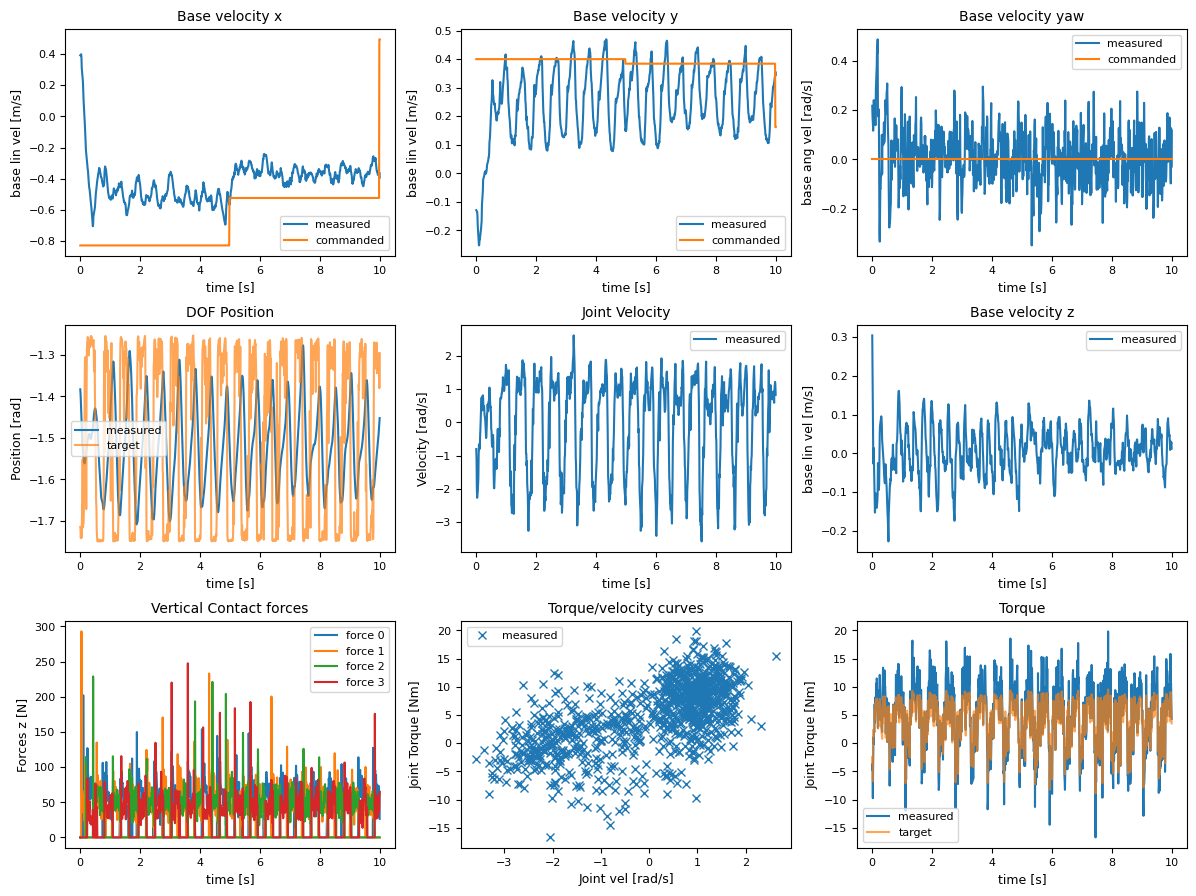
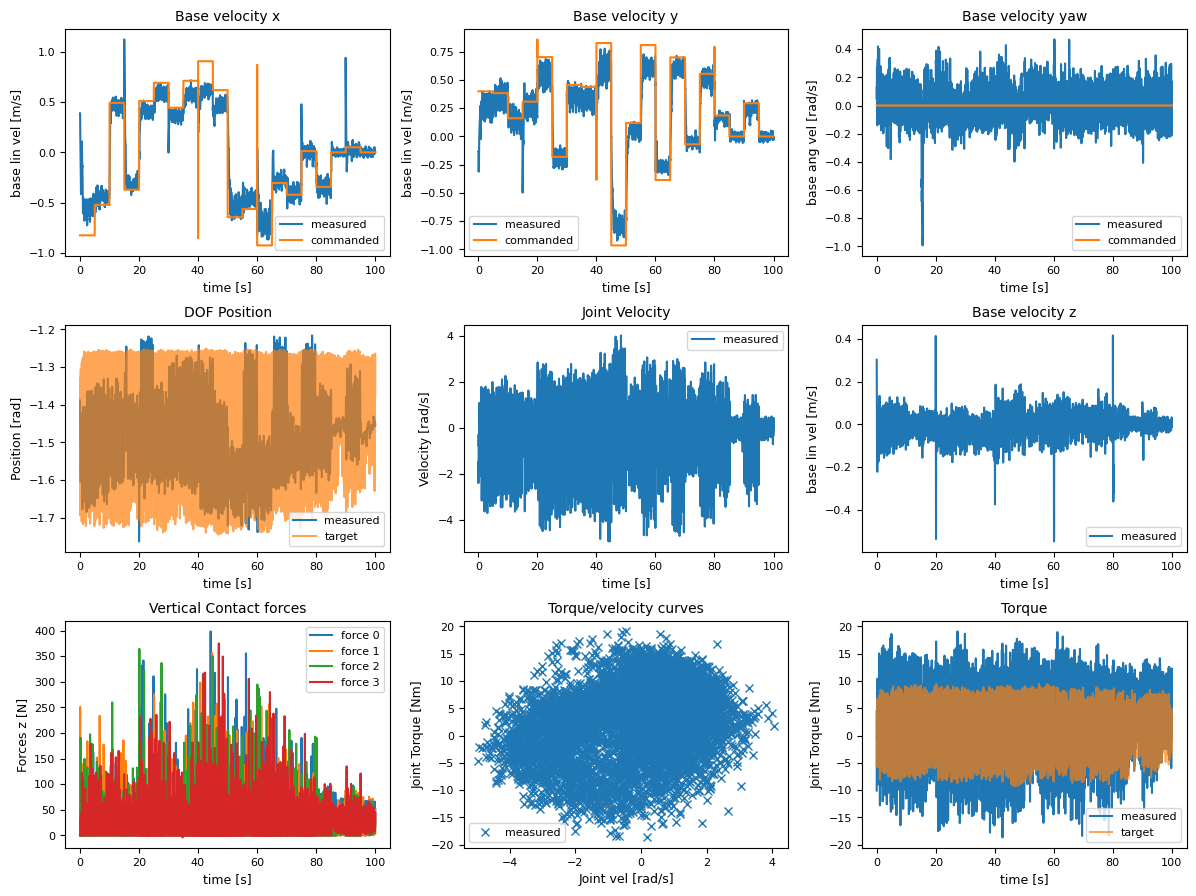
Quick check on policy learning progress

diff --git a/legged_gym/scripts/play_dynamic.py b/legged_gym/scripts/play_dynamic.py
@@ -102,8 +102,8 @@ def play(args):
     if RECORD_FRAMES:
         env.floating_camera.start_recording()
 
-    # for i in range(5*int(env.max_episode_length)):
-    for i in range(1000):
+    for i in range(5*int(env.max_episode_length)):
+    # for i in range(1000):
         actions = policy(obs.detach(), obs_hist.detach())
         obs, _, obs_hist, pos_rews, tau_rews, dones, infos, grfs = env.step(actions.detach())
 

diff --git a/legged_gym/envs/go1/dynamics_learning/go1_dl_config.py b/legged_gym/envs/go1/dynamics_learning/go1_dl_config.py
@@ -433,8 +433,8 @@ class GO1DynmaicCfgPPO( LeggedRobotCfgPPO ):
         save_interval = 100
         
         
-        load_run = "Jan10_21-52-40_full_approach_boot_newfilm_01_100hz_posboot"
-        checkpoint = 2300
+        load_run = "Jan11_19-49-03_full_approach_boot_newfilm_01_100hz_posboot"
+        checkpoint = 2200
 
         # Load parameters for first function policy
         # run_name = 'test_01'
